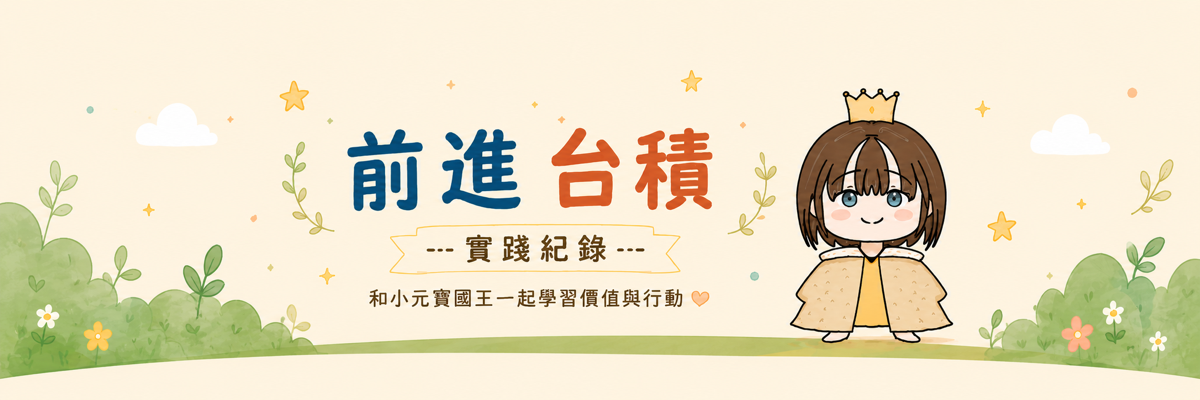
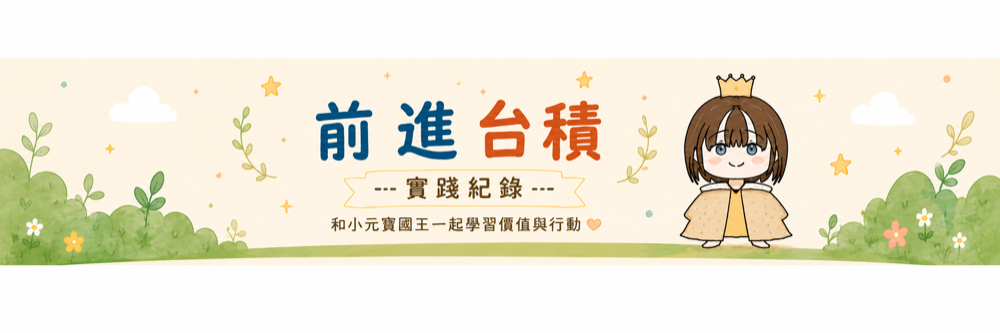
fix: 新橫幅 + 緊縮佈局一頁呈現無捲軸
- 換新橫幅圖
- 橫幅 maxHeight 14vh
- 四欄間距/gap/padding 全面縮小
- 圖片 maxHeight 28vh + object-contain
- pocket 文字/按鈕縮小
- footer 縮小
- 整體一頁放得下

diff --git a/src/pages/TsmcPractice.tsx b/src/pages/TsmcPractice.tsx
@@ -159,17 +159,18 @@ export default function TsmcPractice() {
 
   return (
     <div className="flex h-full flex-col bg-[#fff8ea] overflow-hidden">
-      {/* ── Banner — compact, no crop ── */}
+      {/* ── Banner ── */}
       <div className="shrink-0">
         <img
           src="/banner.png"
           alt="前進台積 實踐紀錄"
           className="w-full object-contain"
+          style={{ maxHeight: "14vh" }}
         />
       </div>
 
-      {/* ── Four value columns — flex fills remaining space ── */}
-      <div className="flex flex-1 min-h-0 gap-3 px-3 py-3">
+      {/* ── Four value columns ── */}
+      <div className="flex flex-1 min-h-0 gap-2 px-2 py-2">
         {values.map((item) => {
           const Icon = item.icon;
           const t = theme[item.color];
@@ -178,34 +179,34 @@ export default function TsmcPractice() {
           return (
             <div key={item.key} className="flex flex-1 flex-col overflow-hidden rounded-2xl bg-white shadow-md">
               {/* Image — no crop, contain within card */}
-              <div className="shrink-0 flex items-center justify-center bg-white px-3 pt-3">
+              <div className="shrink-0 flex items-center justify-center bg-white px-2 pt-2">
                 <img
                   src={item.image}
                   alt={item.zh}
-                  className="w-full rounded-xl object-contain"
-                  style={{ maxHeight: "30vh" }}
+                  className="w-full rounded-lg object-contain"
+                  style={{ maxHeight: "28vh" }}
                 />
               </div>
 
               {/* Pocket */}
-              <div className={`flex flex-1 min-h-0 flex-col rounded-b-2xl border-2 border-dashed ${t.pocket} px-3 pb-3 pt-2`}>
-                <div className="flex items-center justify-between mb-2">
-                  <div className="flex items-center gap-2">
-                    <Icon className={`h-4 w-4 ${t.text}`} />
-                    <span className={`text-sm font-black ${t.text}`}>{item.zh}</span>
-                    <span className="text-xs text-neutral-400">({vRecords.length})</span>
+              <div className={`flex flex-1 min-h-0 flex-col rounded-b-2xl border-2 border-dashed ${t.pocket} px-2 pb-2 pt-1.5`}>
+                <div className="flex items-center justify-between mb-1.5">
+                  <div className="flex items-center gap-1.5">
+                    <Icon className={`h-3.5 w-3.5 ${t.text}`} />
+                    <span className={`text-xs font-black ${t.text}`}>{item.zh}</span>
+                    <span className="text-[10px] text-neutral-400">({vRecords.length})</span>
                   </div>
                   <button onClick={() => setFormValue(item)}
-                    className={`flex items-center gap-1 rounded-full px-3 py-1 text-xs font-bold text-white ${t.button}`}>
-                    <Plus className="h-3.5 w-3.5" />紀錄
+                    className={`flex items-center gap-0.5 rounded-full px-2 py-0.5 text-[10px] font-bold text-white ${t.button}`}>
+                    <Plus className="h-3 w-3" />紀錄
                   </button>
                 </div>
 
                 <div className="flex-1 min-h-0 space-y-1.5 overflow-y-auto" style={{ scrollbarWidth: "thin" }}>
                   {vRecords.length === 0 ? (
-                    <div className="py-3 text-center">
-                      <div className="text-base opacity-30">📝</div>
-                      <div className="text-xs text-neutral-400">還沒有紀錄</div>
+                    <div className="py-2 text-center">
+                      <div className="text-sm opacity-30">📝</div>
+                      <div className="text-[10px] text-neutral-400">還沒有紀錄</div>
                     </div>
                   ) : (
                     vRecords.map((r) => (
@@ -220,7 +221,7 @@ export default function TsmcPractice() {
       </div>
 
       {/* ── Footer ── */}
-      <div className="shrink-0 flex items-center justify-center gap-4 border-t border-amber-200 bg-amber-50 px-4 py-2 text-sm font-bold text-[#7a552f]">
+      <div className="shrink-0 flex items-center justify-center gap-3 border-t border-amber-200 bg-amber-50 px-3 py-1.5 text-xs font-bold text-[#7a552f]">
         <span>小小行動・大大影響 ♡</span>
         <span className="text-amber-300">|</span>
         <span>持續練習，成為更好的自己！</span>
